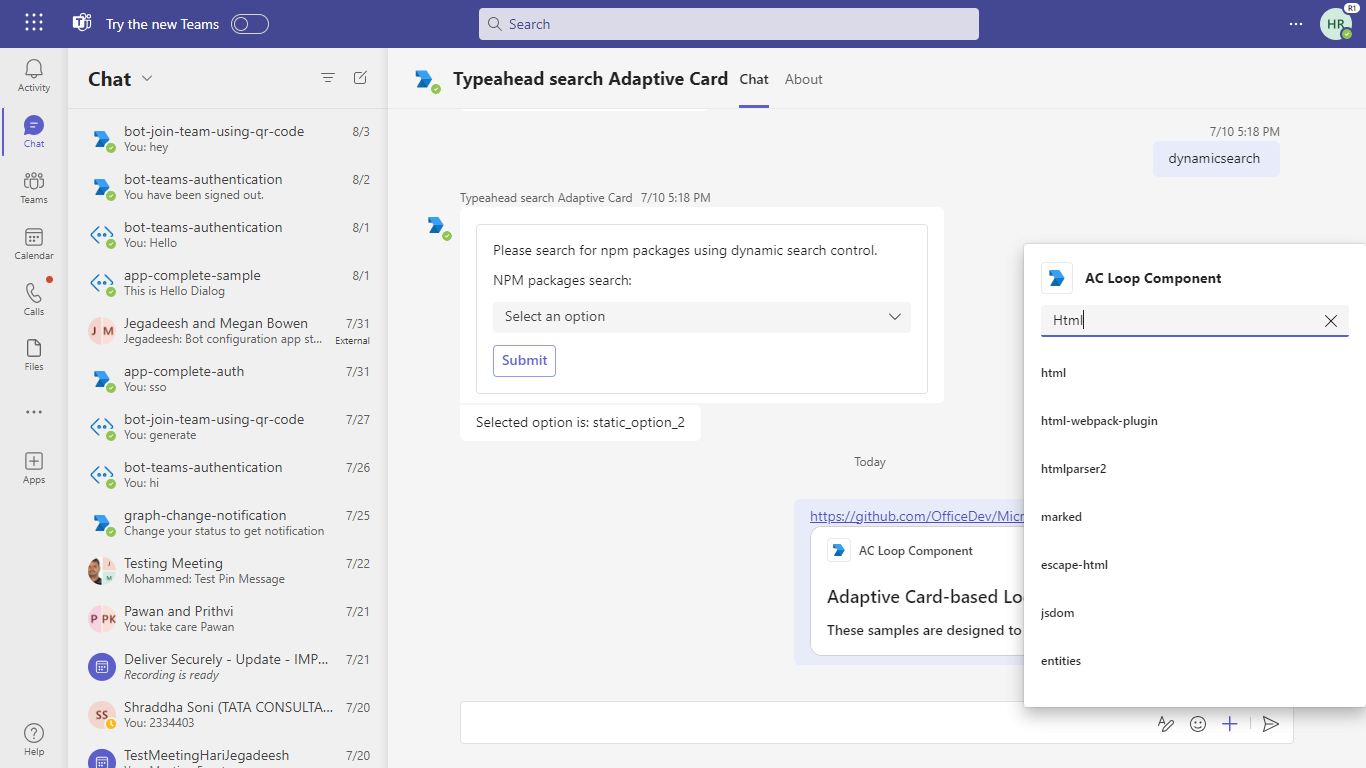
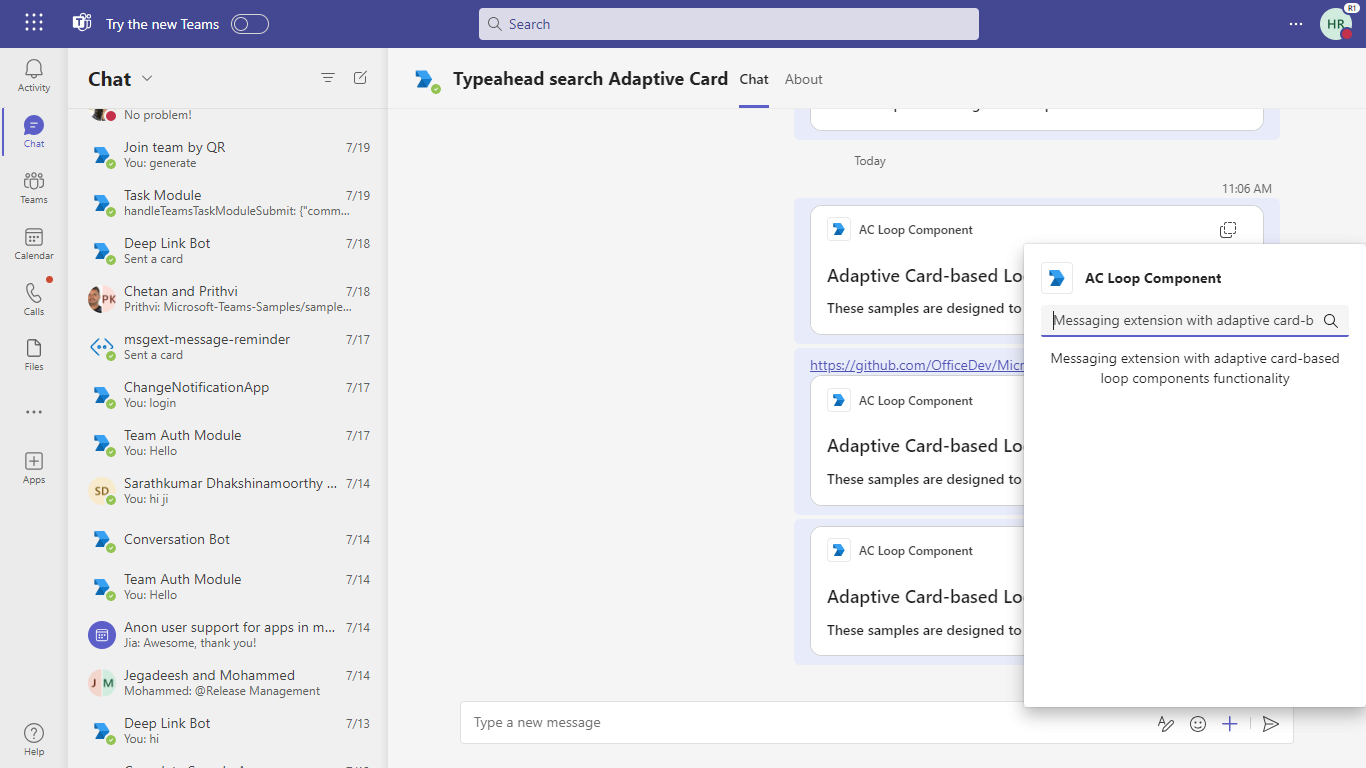
Fixed PR Comments

diff --git a/samples/msgext-unfurling-ac-loop-components/nodejs/bots/teamsBot.js b/samples/msgext-unfurling-ac-loop-components/nodejs/bots/teamsBot.js
@@ -1,6 +1,32 @@
-const axios = require("axios");
-const querystring = require("querystring");
 const { TeamsActivityHandler, CardFactory } = require("botbuilder");
+
+const card = CardFactory.adaptiveCard({
+  "$schema": "http://adaptivecards.io/schemas/adaptive-card.json",
+  "type": "AdaptiveCard",
+  "version": "1.6",
+  "metadata": {
+      "webUrl": "https://github.com/OfficeDev/Microsoft-Teams-Samples/tree/main"
+  },
+  "body": [
+      {
+      "type": "TextBlock",
+      "text": "Adaptive Card-based Loop component",
+      "size": "Large",
+      "weight": "Bolder"
+      },
+      {
+      "type": "Container",
+      "items": [
+          {
+          "type": "TextBlock",
+          "text": "These samples are designed to help understand Microsoft Teams platform capabilities and scenarios(Bots,Tabs,Message extensions,Meeting extensions,Personal apps,Webhooks and connectors)",
+          "weight": "bolder",
+          "size": "medium"
+          }
+      ]
+   }
+  ]
+});
 
 class TeamsBot extends TeamsActivityHandler {
   constructor() {
@@ -9,40 +35,13 @@ class TeamsBot extends TeamsActivityHandler {
 
   // Msgext-link-unfurling
   handleTeamsAppBasedLinkQuery() {
-    const card = CardFactory.adaptiveCard({
-        "$schema": "http://adaptivecards.io/schemas/adaptive-card.json",
-        "type": "AdaptiveCard",
-        "version": "1.6",
-        "metadata": {
-            "webUrl": "https://github.com/OfficeDev/Microsoft-Teams-Samples/tree/main"
-        },
-        "body": [
-            {
-            "type": "TextBlock",
-            "text": "Adaptive Card-based Loop component",
-            "size": "Large",
-            "weight": "Bolder"
-            },
-            {
-            "type": "Container",
-            "items": [
-                {
-                "type": "TextBlock",
-                "text": "These samples are designed to help understand Microsoft Teams platform capabilities and scenarios(Tabs,Bots,",
-                "weight": "bolder",
-                "size": "medium"
-                }
-            ]
-         }
-        ]
-    });
 
     const attachment = card;
 
     attachment.preview = {
         content: {
-            title: "Thumbnail Card",
-            text:"Test",
+            title: "Adaptive Card-based Loop component",
+            text:"These samples are designed to help understand Microsoft Teams platform capabilities and scenarios(Bots,Tabs,Message extensions,Meeting extensions,Personal apps,Webhooks and connectors)",
         },
         contentType: "application/vnd.microsoft.card.thumbnail",
     }
@@ -63,32 +62,22 @@ class TeamsBot extends TeamsActivityHandler {
   // Message extension Code Search
   // Used in creating a Search-based Message Extension
   async handleTeamsMessagingExtensionQuery(context, query) {
-    const searchQuery = query.parameters[0].value;
-    const response = await axios.get(
-      `http://registry.npmjs.com/-/v1/search?${querystring.stringify({
-        text: searchQuery,
-        size: 8,
-      })}`
-    );
+   
+   const attachment = card;
 
-    const attachments = [];
+    attachment.preview = {
+        content: {
+          title: "Adaptive Card-based Loop component",
+          text:"These samples are designed to help understand Microsoft Teams platform capabilities and scenarios(Bots,Tabs,Message extensions,Meeting extensions,Personal apps,Webhooks and connectors)",
+        },
+        contentType: "application/vnd.microsoft.card.thumbnail",
+    }
     
-    response.data.objects.forEach((obj) => {
-      const heroCard = CardFactory.heroCard(obj.package.name);
-      const preview = CardFactory.heroCard(obj.package.name);
-      preview.content.tap = {
-        type: "invoke",
-        value: { name: obj.package.name, description: obj.package.description },
-      };
-      const attachment = { ...heroCard, preview };
-      attachments.push(attachment);
-    });
-
     return {
       composeExtension: {
         type: "result",
         attachmentLayout: "list",
-        attachments: attachments,
+        attachments: [attachment],
       },
     };
   }
@@ -96,41 +85,8 @@ class TeamsBot extends TeamsActivityHandler {
   // Receives invoke activities with the name 'selectItem'.
   //Used in creating a Search-based Message Extension. 
   async handleTeamsMessagingExtensionSelectItem(context, obj) {
-    const card = CardFactory.adaptiveCard({
-      "$schema": "http://adaptivecards.io/schemas/adaptive-card.json",
-      "type": "AdaptiveCard",
-      "version": "1.6",
-      "metadata": {
-          "webUrl": "https://github.com/OfficeDev/Microsoft-Teams-Samples/tree/main"
-      },
-      "body": [
-          {
-          "type": "TextBlock",
-          "text": "Adaptive Card-based Loop components",
-          "size": "Large",
-          "weight": "Bolder"
-          },
-          {
-          "type": "Container",
-          "items": [
-              {
-              "type": "TextBlock",
-              "text": obj.name,
-              "weight": "bolder",
-              "size": "medium"
-              },
-              {
-                "type": "TextBlock",
-                "text": obj.description,
-                "weight": "bolder",
-                "size": "medium"
-                }
-          ]
-       }
-      ]
-  });
-
-  return {
+  
+    return {
     composeExtension: {
       type: "result",
       attachmentLayout: "list",

diff --git a/samples/msgext-unfurling-ac-loop-components/nodejs/README.md b/samples/msgext-unfurling-ac-loop-components/nodejs/README.md
@@ -117,11 +117,14 @@ the Teams service needs to call into the bot.
 **If you copy and paste a link from https://github.com/OfficeDev/Microsoft-Teams-Samples/tree/main into the compose message area the link will unfurl:**
 ![2.AdaptiveCardLoopComponent](Images/2.AdaptiveCardLoopComponent.png)
 
-**Search Result:**
+**Search:**
 ![3.MsgextSearch ](Images/3.MsgextSearch.png)
 
+**Search Results:**
+![4.MsgextSearchResults ](Images/4.MsgextSearchResults.png)
+
 **Adaptive Card Based Loop Components:**
-![4.AdaptiveCardLoopComponentMsgextSearch](Images/4.AdaptiveCardLoopComponentMsgextSearch.png)
+![5.AdaptiveCardLoopComponentMsgextSearch](Images/5.AdaptiveCardLoopComponentMsgextSearch.png)
 
 ## Deploy the bot to Azure
 
